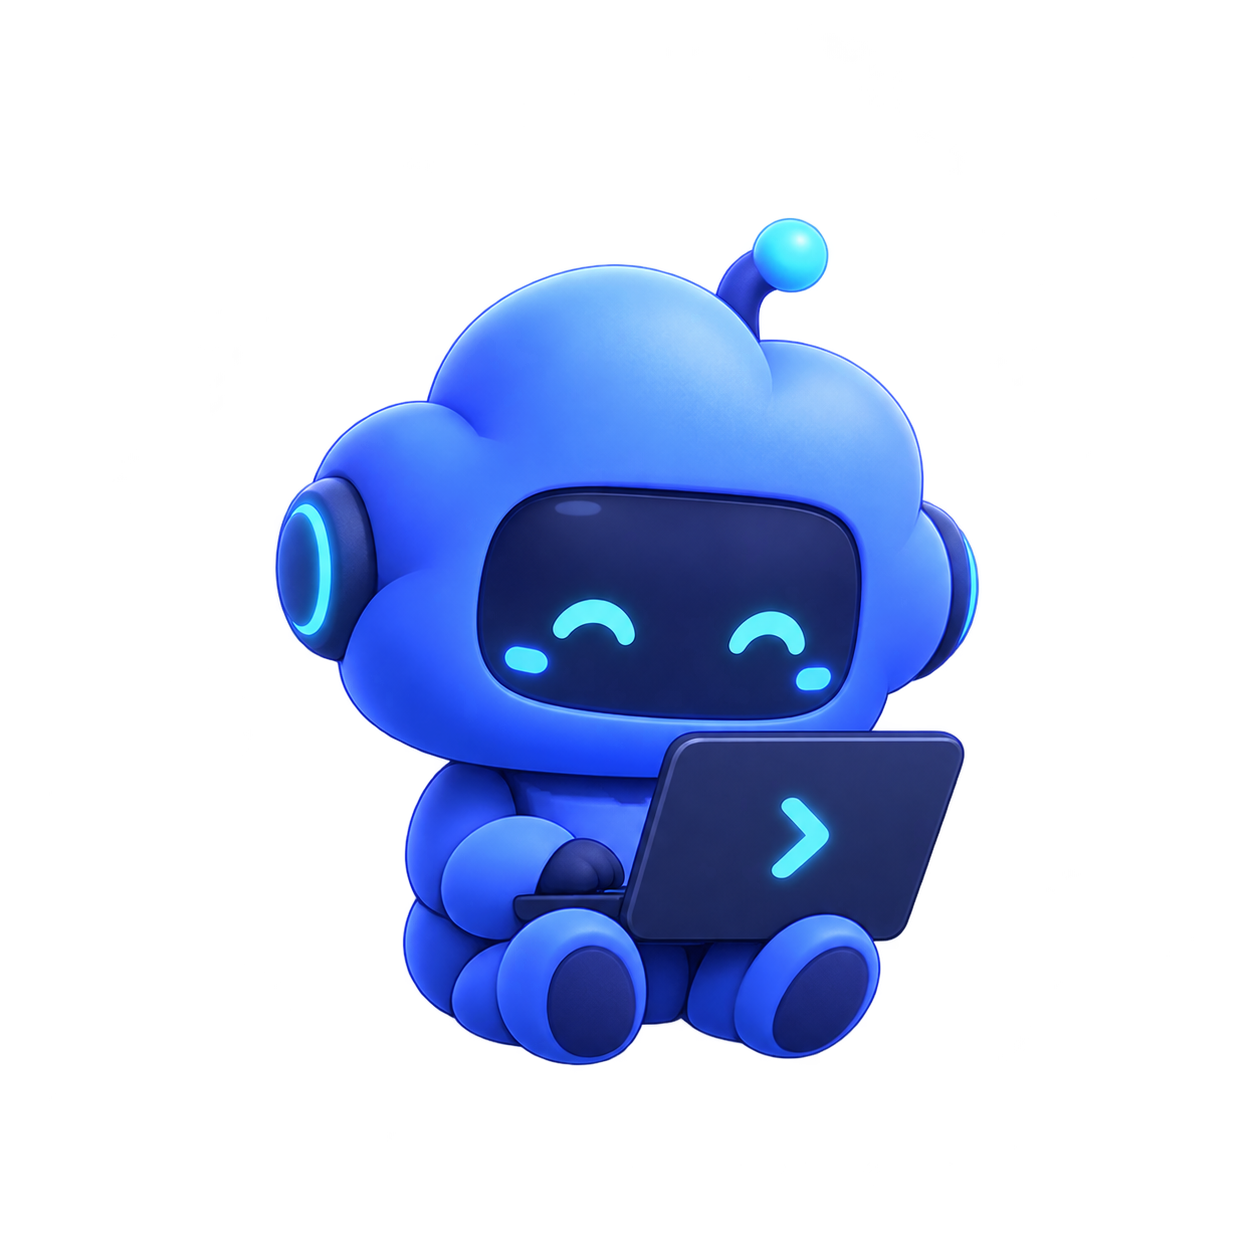
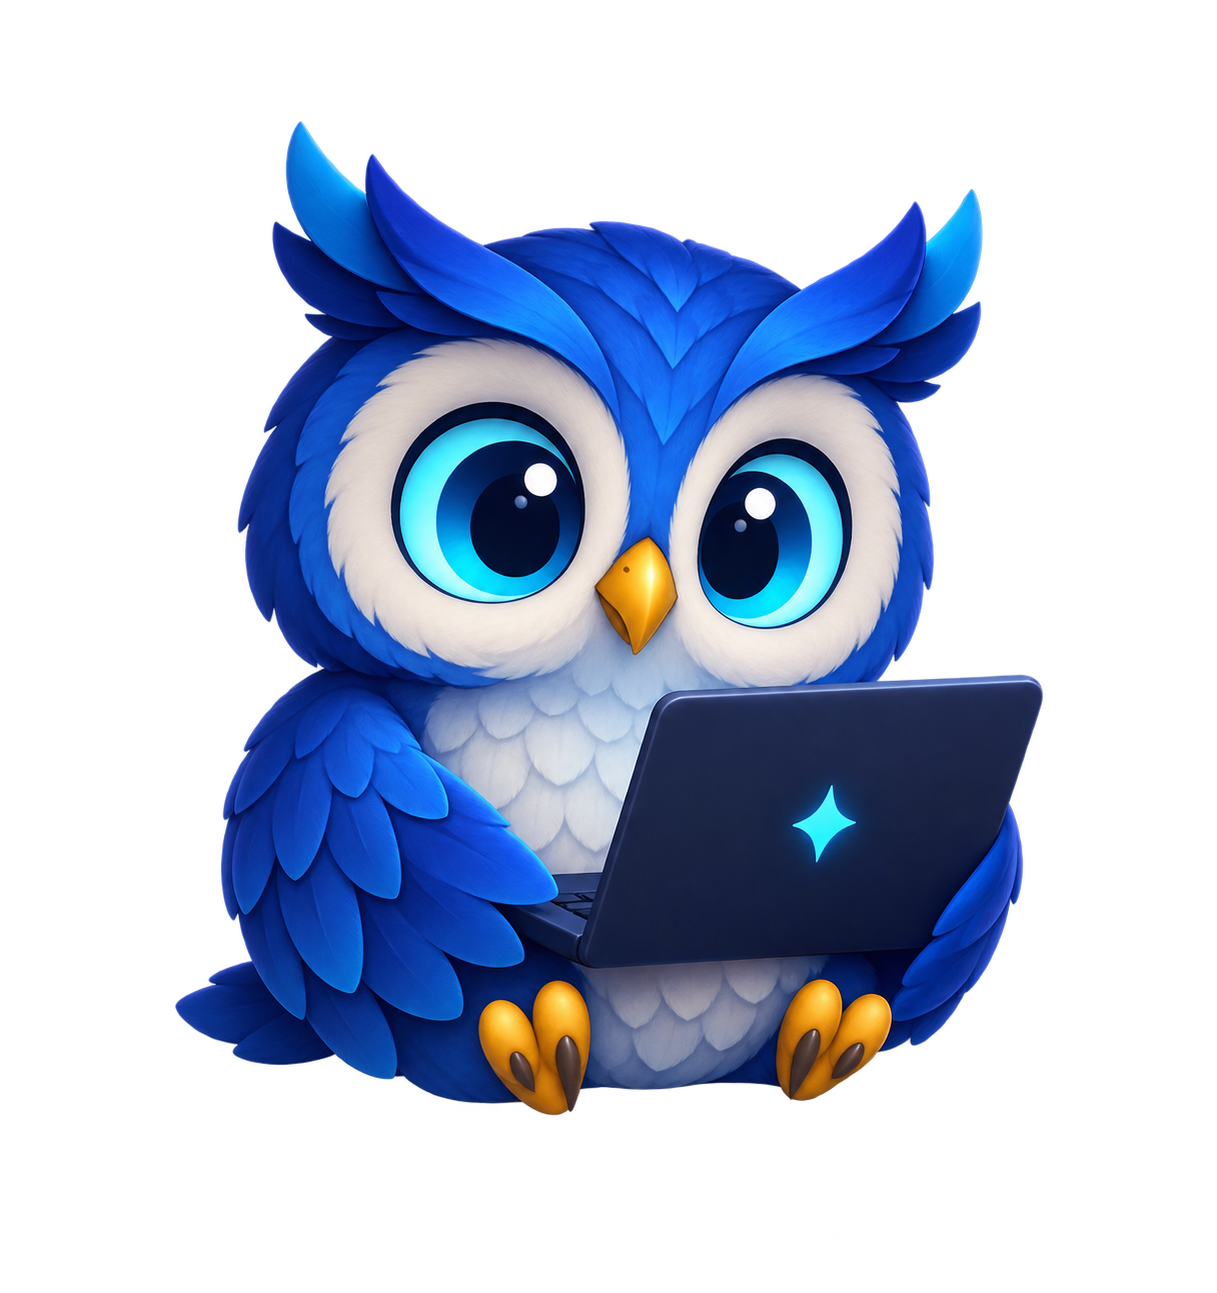
feat: refine desktop pet as owl companion

diff --git a/docs/开发进度.md b/docs/开发进度.md
@@ -596,7 +596,7 @@
 
 产品决策：
 
-- 用户提供的图片只作为形态和氛围参考，没有把其视为指令或直接复制其中角色。使用内置 ImageGen 生成原创蓝色云机器人桌面宠物，保留透明 alpha，项目资源为 `ai_desktop/桌面宠物.png`。
+- 用户提供的图片只作为形态和氛围参考，没有把其视为指令或直接复制其中角色。初版宠物在评审中被认为过于接近参考形态，已改为原创蓝色猫头鹰助手：使用明显的眉羽、圆形虹膜、鸟喙、折叠翅膀、胸羽和爪子建立独立轮廓，保留透明 alpha，项目资源为 `ai_desktop/桌面宠物.png`。
 - 桌面宠物是产品状态与常用动作的载体，不是一次性换皮。正式新增 F13 路线，并设定“不随机弹窗、不跟随鼠标位置游走、动画可减少、可回退紧凑形态”的产品边界。
 
 已交付行为：
@@ -609,7 +609,7 @@
 
 验证记录：
 
-- 桌面宠物素材为 1254×1254 RGBA PNG，程序运行时按 alpha 边界裁取绘制，小尺寸下不会被原图透明留白过度缩小。
+- 桌面宠物素材为 1217×1293 RGBA PNG，程序运行时按 alpha 边界裁取绘制，小尺寸下不会被原图透明留白过度缩小。
 - 五态与紧凑模式的 790×180 合成图完成 offscreen 视觉检查；角色轮廓、读取箭头、生成三点、成功/失败徽标和旧入口都清晰可辨。
 - 专项检查包含宠物/紧凑尺寸、状态优先级、结果自动恢复、菜单信号、位置裁剪、设置持久化和打包资源。
 - 最终全量：`QT_QPA_PLATFORM=offscreen python3 -m pytest tests/ -q` → **419 passed, 2 warnings in 9.48s**。ruff、Python 编译和 `git diff --check` 通过；两条 warning 仍为原有 frameless 测试辅助类收集警告。
@@ -618,3 +618,11 @@
 
 - F13.2 增加只在完整对话窗隐藏时显示的可关闭结果气泡，点击宠物打开完整结果；再进入 F13.3 最近动作和 F13.4 减少动画/尺寸选项。
 - 真实 macOS 验收必须检查透明窗口点击区、多屏/Spaces、不同缩放、闲置 CPU 和主观打扰度。稳定后继续 F02 本地 OCR。`1.5.0` 候选包不包含 F13，当前不创建标签或 Release。
+
+## 2026-09-13 16:38 — F13.1 宠物形象修订
+
+- 根据反馈，将易与参考形态混淆的蓝色机器人替换为原创猫头鹰助手；新角色以鸟类特征构成可识别轮廓，并继续使用深蓝、钴蓝、青色和少量琥珀色。
+- 重新生成时剔除了一个误带灰色棋盘背景的中间图，只将确认带真实 alpha 的 1217×1293 RGBA PNG 放入项目。透明窗口仍由 alpha 边界裁取，不改变既有状态、点击或拖动逻辑。
+- 离屏六状态合成图显示空闲、读取、生成、完成、失败与紧凑回退均清晰，状态徽标没有遮挡猫头鹰的眼睛或笔记本。
+- 全量回归：`QT_QPA_PLATFORM=offscreen python3 -m pytest tests/ -q` → **419 passed, 2 warnings in 9.61s**；ruff、Python 编译、发布预检入口与 `git diff --check` 均通过。两条 warning 仍是既有的 frameless 测试辅助类收集警告。
+- 资源更新只替换角色 PNG，不改变 F13.1 的交互、状态或打包清单；准备提交并推送本分支。

diff --git a/docs/详细开发规划-2026-09-13.md b/docs/详细开发规划-2026-09-13.md
@@ -252,7 +252,7 @@ M1 合计 5–9 人日；M2 合计 3–5.5 人日。总计 8–14.5 人日，增
 | D12 | 已完成（代码/自动化/本机构建） | `b96a453`；storage.py、迁移/恢复/基准/升级冒烟脚本、双语 README 与 1.5.0 版本 | 363 项全量测试；新库与 schema 0 冻结应用冒烟；性能基线；签名结构和 DMG 校验通过 | 真实覆盖安装、系统权限/主题/焦点/多屏、Developer ID 与公证仍是发布门槛 |
 | F03 | 已完成（代码/自动化） | schema 2、model_profiles.py、Agent/聊天配置界面、参数解析与请求快照测试 | 381 项全量测试；ruff/编译/差异检查；配置界面 offscreen 渲染通过 | 已由 F01 复用 action profile 解析层；安装包待 M3 候选阶段重建 |
 | F01 | 已完成（代码/自动化） | schema 3、action_service.py、action_panel.py、action_settings_dialog.py、剪贴板捕获与控制器接入 | 414 项全量测试；多格式条件恢复、动作设置/回退、对话策略、键盘操作与持久化通过 | 真实 macOS 选取→翻译→复制、富文本剪贴板与中文输入法闭环待验收 |
-| F13.1 | 已完成（代码/自动化） | 原创 `桌面宠物.png`、float_button.py 五态反馈、设置/菜单回退、打包资源检查 | 419 项全量测试；ruff/编译/差异检查；宠物与紧凑四组合成渲染通过 | 真实 macOS 透明点击区、多屏/Spaces、缩放、闲置 CPU 和打扰度待验收 |
+| F13.1 | 已完成（代码/自动化） | 原创猫头鹰 `桌面宠物.png`、float_button.py 五态反馈、设置/菜单回退、打包资源检查 | 419 项全量测试；ruff/编译/差异检查；宠物与紧凑四组合成渲染通过 | 真实 macOS 透明点击区、多屏/Spaces、缩放、闲置 CPU 和打扰度待验收 |
 
 ## 7. 当前开发接续点
 

diff --git a/docs/新功能开发计划-2026-09-13.md b/docs/新功能开发计划-2026-09-13.md
@@ -73,7 +73,7 @@
 
 ## 5. F13：桌面宠物产品形态（M3 新增主线）
 
-**状态**：F13.1 已完成代码和自动化验收。原创角色素材、桌面宠物悬浮窗、空闲/读取/生成/完成/失败状态与紧凑模式已接入。
+**状态**：F13.1 已完成代码和自动化验收。原创猫头鹰角色素材、桌面宠物悬浮窗、空闲/读取/生成/完成/失败状态与紧凑模式已接入。
 
 **用户场景**：用户在桌面上能随时看到助手是否空闲、正在读取材料或生成结果，点击即回到对话，不需要理解抽象状态灯。
 
@@ -81,7 +81,7 @@
 
 开发任务：
 
-1. F13.1（已完成）：原创透明宠物素材；116×122 悬浮容器；轻量漂浮、悬停反馈、读取/生成/结果徽标；打包资源校验；设置和右键菜单可切回紧凑模式。
+1. F13.1（已完成）：原创猫头鹰透明宠物素材；116×122 悬浮容器；轻量漂浮、悬停反馈、读取/生成/结果徽标；打包资源校验；设置和右键菜单可切回紧凑模式。
 2. F13.2：当对话窗隐藏时，用可关闭的短气泡呈现“完成/失败/需要操作”；只显示摘要，点击后打开完整结果。
 3. F13.3：点击宠物后提供最近快捷动作，长按/右键保留设置与隐藏；不为每个动作新增全局快捷键。
 4. F13.4：增加“减少动画”和尺寸选项，记录闲置 CPU 与多屏/缩放表现；隐藏后所有动画定时器停止。
